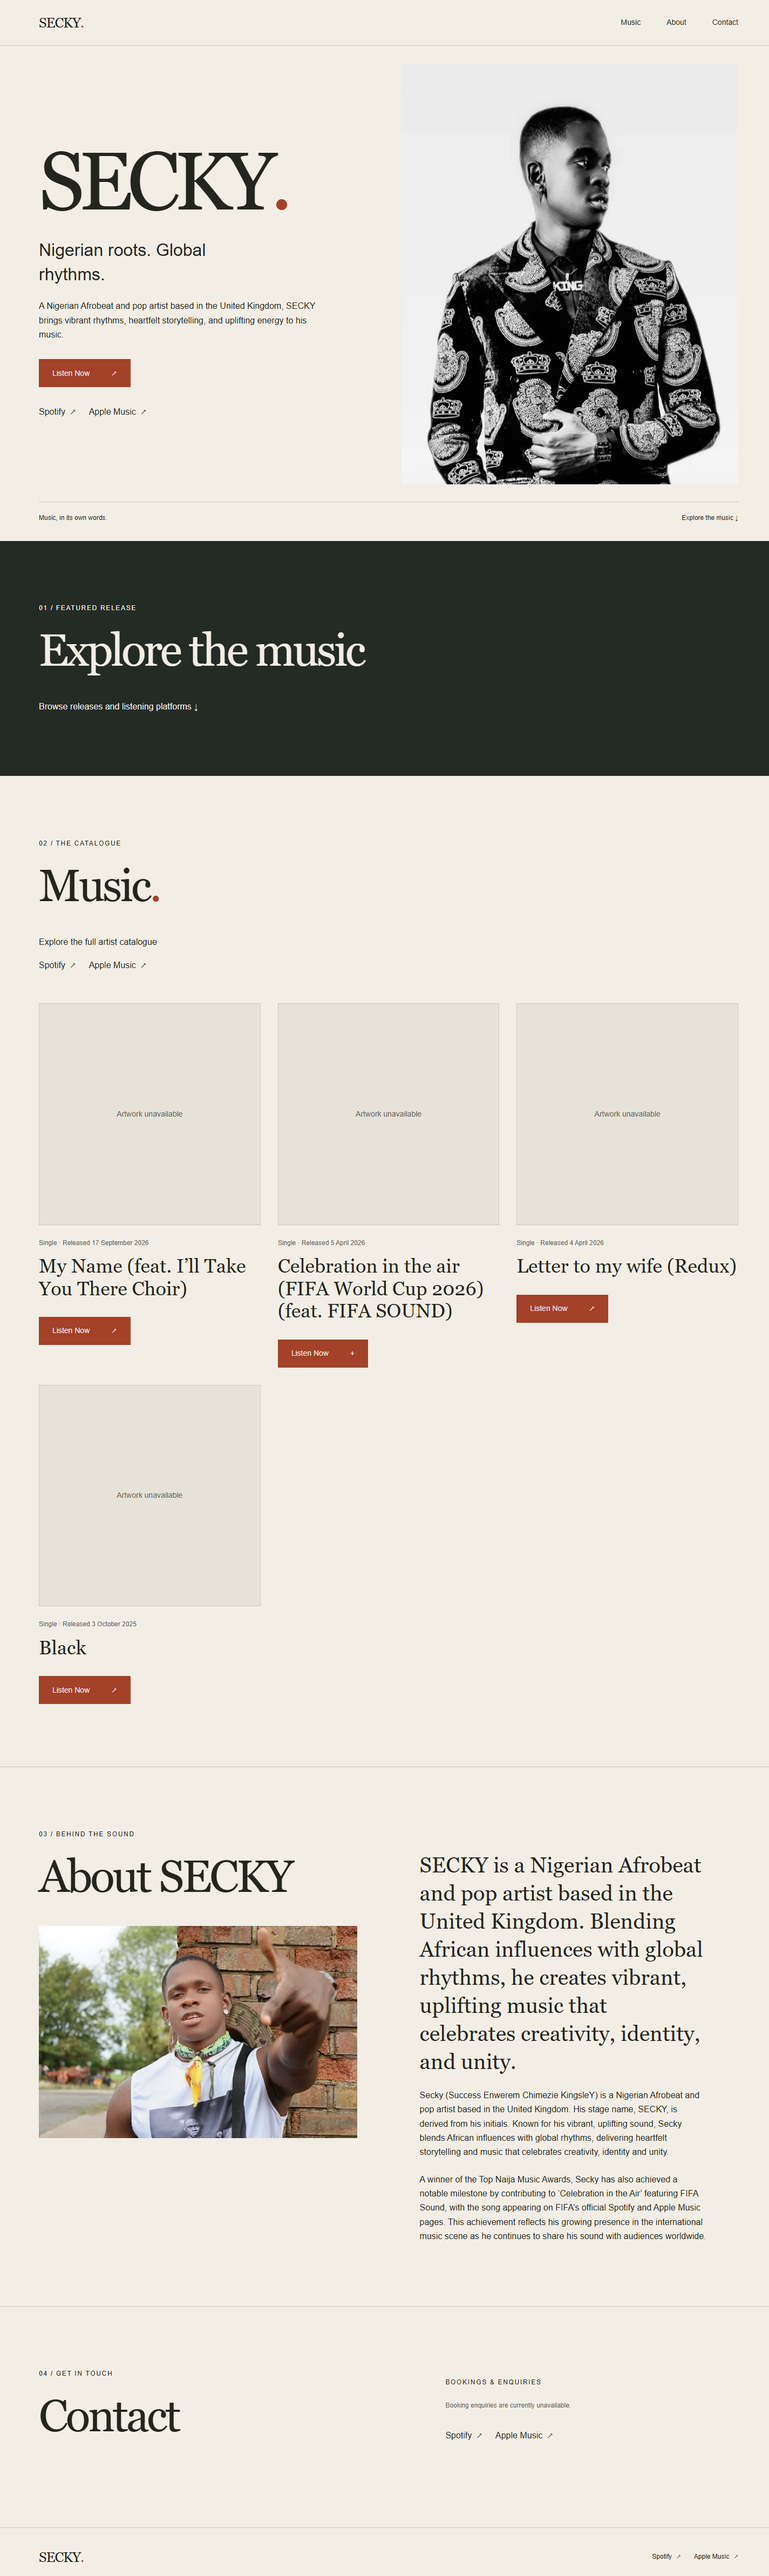
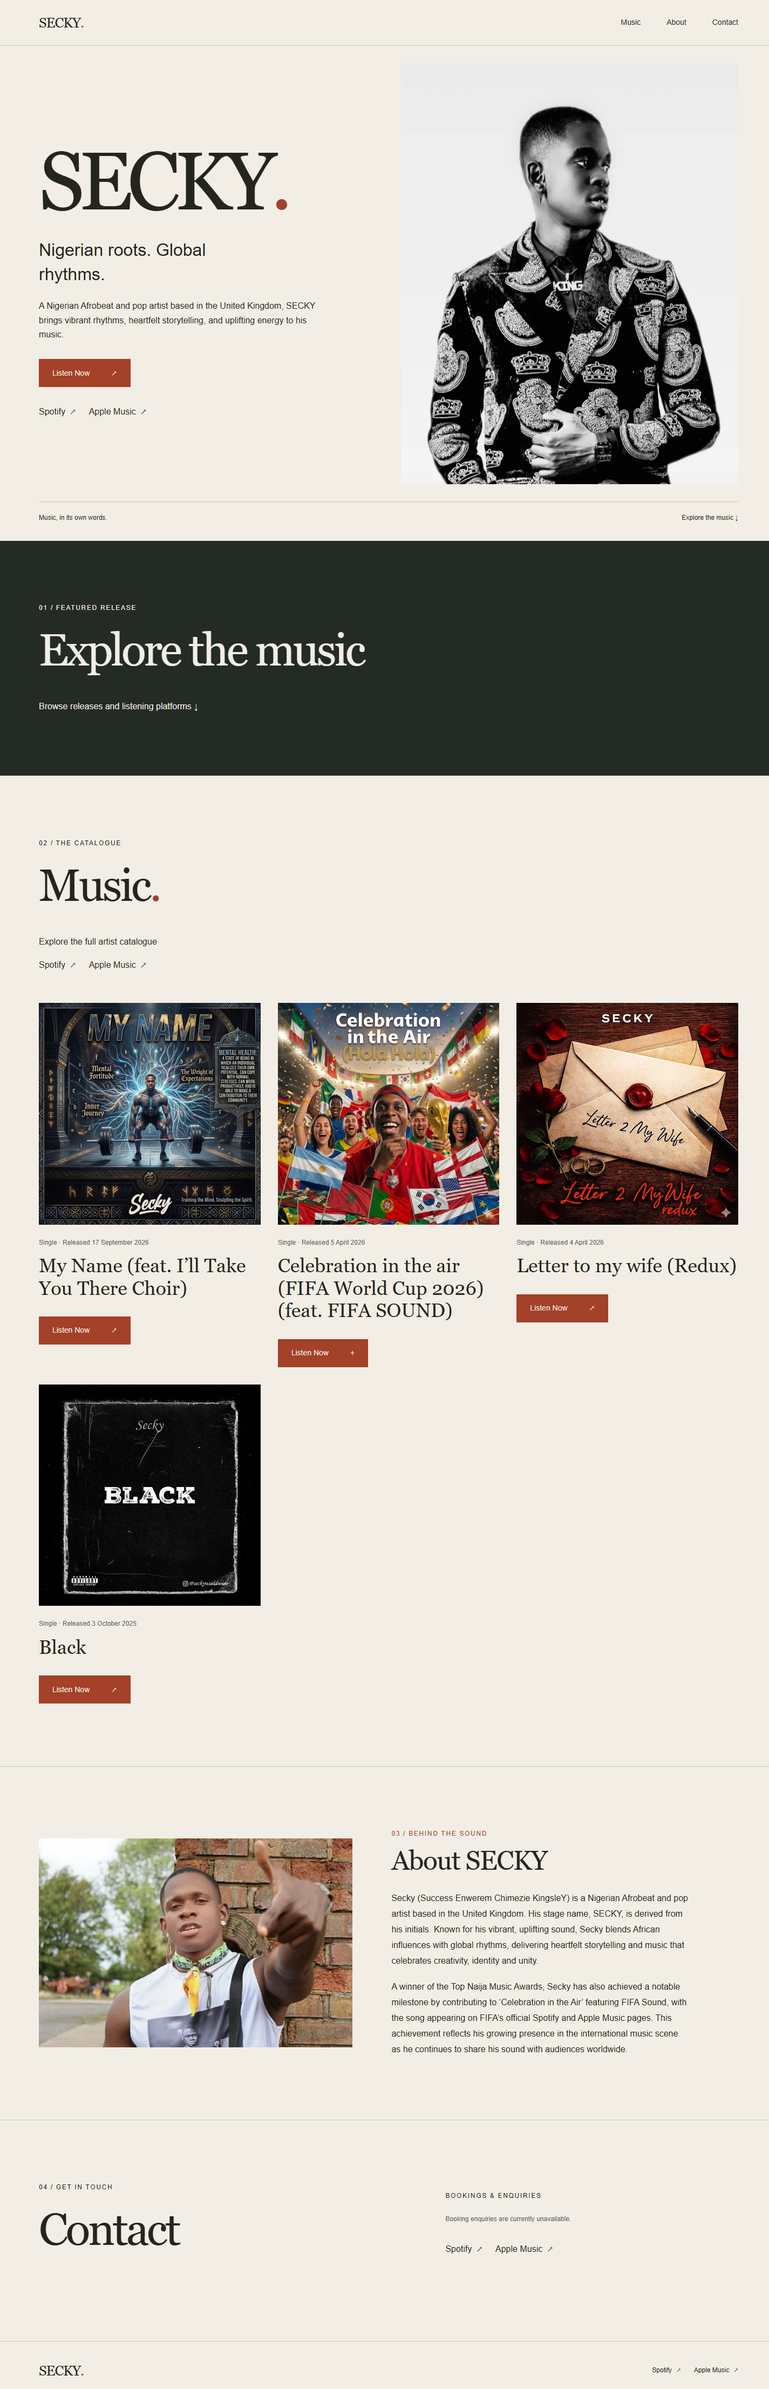
fixes: added email services and fixed tab issues

diff --git a/src/content/releases.ts b/src/content/releases.ts
@@ -1,3 +1,8 @@
+const myNameArtwork = new URL('../assets/releases/my-name.jpg', import.meta.url).href;
+const celebrationArtwork = new URL('../assets/releases/celebration-in-the-air.jpg', import.meta.url).href;
+const letterArtwork = new URL('../assets/releases/letter-to-my-wife-redux.jpg', import.meta.url).href;
+const blackArtwork = new URL('../assets/releases/black.jpg', import.meta.url).href;
+
 export interface ReleasePlatform {
   name: string;
   url: string;
@@ -18,16 +23,19 @@ export interface Release {
 }
 
 // Verified platform metadata and release-specific destinations; see docs/content-sources.md.
-// Artwork reuse permission and client featured selection remain outstanding.
+// Official covers matched by Apple collection and artist ID at the user's request.
+// Source register: docs/release-artwork-sources.json. Featured selection remains pending.
 export const releases: Release[] = [
   {
     id: 'my-name', title: 'My Name (feat. I’ll Take You There Choir)', type: 'single',
     releaseDate: '2026-09-17', featured: false,
+    artwork: { src: myNameArtwork, alt: 'Cover artwork for My Name by SECKY featuring I’ll Take You There Choir' },
     platforms: [{ name: 'Apple Music', url: 'https://music.apple.com/us/album/my-name-feat-ill-take-you-there-choir/6811251027?i=6811251028' }],
   },
   {
     id: 'celebration-in-the-air', title: 'Celebration in the air (FIFA World Cup 2026) (feat. FIFA SOUND)', type: 'single',
     releaseDate: '2026-04-05', featured: false,
+    artwork: { src: celebrationArtwork, alt: 'Cover artwork for Celebration in the air by SECKY featuring FIFA SOUND' },
     platforms: [
       { name: 'Spotify', url: 'https://open.spotify.com/track/2AoDhIQASYWEc1FjtXQv6y' },
       { name: 'Apple Music', url: 'https://music.apple.com/us/album/celebration-in-the-air-fifa-world-cup-2026-feat-fifa/1888957592' },
@@ -36,10 +44,12 @@ export const releases: Release[] = [
   {
     id: 'letter-to-my-wife-redux', title: 'Letter to my wife (Redux)', type: 'single',
     releaseDate: '2026-04-04', featured: false,
+    artwork: { src: letterArtwork, alt: 'Cover artwork for Letter to my wife (Redux) by SECKY' },
     platforms: [{ name: 'Apple Music', url: 'https://music.apple.com/us/album/letter-to-my-wife-redux/1891233342?i=1891233343' }],
   },
   {
     id: 'black', title: 'Black', type: 'single', releaseDate: '2025-10-03', featured: false,
+    artwork: { src: blackArtwork, alt: 'Cover artwork for Black by SECKY' },
     platforms: [{ name: 'Apple Music', url: 'https://music.apple.com/us/album/black-single/1843594841' }],
   },
 ];

diff --git a/src/components/ArtistSections.tsx b/src/components/ArtistSections.tsx
@@ -19,9 +19,10 @@ export function Hero({ artist, listeningTarget = '#music' }: { artist: ArtistCon
 
 export function About({ artist }: { artist: ArtistContent }) {
   return <section id="about" className="about section" tabIndex={-1} aria-labelledby="about-title"><Container className="about-grid">
-    <div><SectionHeading id="about-title" eyebrow="03 / Behind the sound">{artist.aboutHeading}</SectionHeading>{artist.aboutImage && <ArtistPhoto image={artist.aboutImage} />}</div>
-    <div className="biography">{artist.isDraft && <p className="draft">Temporary biography — approved artist copy pending.</p>}
-      {artist.shortBio && <p className="bio-lead">{artist.shortBio}</p>}
+    {artist.aboutImage && <ArtistPhoto image={artist.aboutImage} />}
+    <div className="biography">
+      <SectionHeading id="about-title" eyebrow="03 / Behind the sound">{artist.aboutHeading}</SectionHeading>
+      {artist.isDraft && <p className="draft">Temporary biography — approved artist copy pending.</p>}
       {artist.biography.map((paragraph, index) => <p key={index}>{paragraph}</p>)}
     </div>
   </Container></section>;

diff --git a/src/styles.css b/src/styles.css
@@ -177,3 +177,18 @@ footer .profile-links { margin-top: 0; }
 .about-image { width: 100%; }
 .about-image img { aspect-ratio: 3 / 2; object-position: center; filter: none; }
 
+/* A compact portrait-and-story layout, with one clear biography rather than repeated introductions. */
+.about-grid { grid-template-columns: minmax(0, .95fr) minmax(0, 1.05fr); align-items: center; gap: clamp(2rem, 5vw, 5rem); }
+.about .about-image { margin: 0; }
+.about .biography { padding: 0; max-width: 62ch; font-size: 1rem; line-height: 1.8; }
+.about .section-heading { margin-bottom: 1.75rem; }
+.about h2 { font-size: clamp(2.25rem, 3.5vw, 3.5rem); letter-spacing: -.035em; line-height: 1.12; }
+.about .eyebrow { color: var(--accent); margin-bottom: .75rem; }
+.about .biography > p + p { margin-top: 1.25rem; }
+.about-grid:not(:has(.about-image)) { grid-template-columns: 1fr; }
+@media (max-width: 767px) {
+  .about-grid { grid-template-columns: 1fr; gap: 2rem; }
+  .about .about-image { max-width: 600px; }
+  .about .biography { max-width: 65ch; }
+}
+

diff --git a/src/components/ui.tsx b/src/components/ui.tsx
@@ -12,7 +12,10 @@ export function Button({ className = '', type = 'button', ...props }: ComponentP
   return <button type={type} className={`button ${className}`} {...props} />;
 }
 export function Link({ className = '', ...props }: AnchorHTMLAttributes<HTMLAnchorElement>) {
-  return <a className={className} {...props} />;
+  const external = /^(https?:)?\/\//i.test(props.href ?? '');
+  return <a className={className} {...props}
+    target={external ? '_blank' : props.target}
+    rel={external ? `${props.rel ?? ''} noopener noreferrer`.trim() : props.rel} />;
 }
 export function ButtonLink(props: AnchorHTMLAttributes<HTMLAnchorElement>) {
   return <Link {...props} className={`button ${props.className ?? ''}`} />;

diff --git a/src/content/artist.ts b/src/content/artist.ts
@@ -75,6 +75,7 @@ export const artist: ArtistContent = {
     'A winner of the Top Naija Music Awards, Secky has also achieved a notable milestone by contributing to ‘Celebration in the Air’ featuring FIFA Sound, with the song appearing on FIFA’s official Spotify and Apple Music pages. This achievement reflects his growing presence in the international music scene as he continues to share his sound with audiences worldwide.',
   ],
   bookingLabel: 'Bookings & enquiries',
+  bookingEmail: 'Info@seckyworldwide.com',
   contactHeading: 'Contact',
   socialProfiles: [],
   streamingProfiles: [

diff --git a/README.md b/README.md
@@ -1,6 +1,6 @@
 # Artist website
 
-SECKY's identity, biographies, supplied hero/About photos, Spotify/Apple Music profiles and four platform-identified releases are integrated after Phase 4. No release is featured yet; covers and contact details are still missing. Release-candidate QA is complete; see docs/qa-report.md for launch blockers. No backend or account features are included.
+SECKY's identity, biographies, supplied hero/About photos, Spotify/Apple Music profiles and four platform-identified releases are integrated after Phase 4. No release is featured yet; official covers and the public booking email are integrated. Release-candidate QA is complete; see docs/qa-report.md for launch blockers. No backend or account features are included.
 
 ## Setup and development
 
@@ -38,7 +38,7 @@ Dependencies are pinned in `package.json` and `package-lock.json`: React/React D
 
 Edit `src/content/artist.ts`, not layout components. Change stage name, tagline, introduction, headings, short biography and biography paragraph array there. The page title follows the stage name. Add approved photography under an appropriate asset directory, import it and update the image's `src`, dimensions, `alt` and optional caption. Set an optional image/logo to `undefined` to omit it; the hero expands to one column without a photograph.
 
-Set `bookingEmail` to the verified public address. The contact component renders it as a `mailto:` link; blank or malformed values render an honest unavailable message. There is no form or sending service. Social/streaming arrays contain `{ label, url }` entries. Only nonempty labels with valid HTTPS URLs are displayed. They open in the same tab and have visible text labels; decorative arrows are hidden from assistive technology. Empty arrays produce no placeholder links or empty link headings. Manually verify the actual artist destination; syntax validation does not establish ownership.
+Set `bookingEmail` to the verified public address. The contact component renders it as a `mailto:` link; blank or malformed values render an honest unavailable message. There is no form or sending service. Social/streaming arrays contain `{ label, url }` entries. Only nonempty labels with valid HTTPS URLs are displayed. They open in a new tab with noopener noreferrer and have visible text labels; decorative arrows are hidden from assistive technology. Empty arrays produce no placeholder links or empty link headings. Manually verify the actual artist destination; syntax validation does not establish ownership.
 
 Current artist copy is client-supplied and `isDraft` is false, removing obsolete sample-copy notices. This does not mean launch-ready: noindex remains in place, and release artwork, booking/social details and copyright attribution are pending. Spotify and Apple Music profile links use the exact supplied URLs. Test `.test` URLs stay inside isolated fixtures. Set `copyrightOwner` only when confirmed. The full biography is supplied copy; supporting award/FIFA evidence and the final capital Y in the full name are tracked in the checklist.
 
@@ -70,7 +70,7 @@ The helper closes its dedicated browser on completion. It checks 320, 390, 768, 
 
 ## Outstanding content and later work
 
-Remaining inputs: all cover artwork, featured selection, canonical full catalogue, booking/management email, social handles, copyright attribution, brand approval and claim/name confirmations. The identity, hero copy, biographies and two artist profile URLs have been supplied and integrated. Catalogue sources and limited-access URLs are recorded in `docs/content-sources.md`. Responsive image optimisation and targeted production QA are complete. No deployment, broad cross-browser audit, physical-device testing or screen-reader audit has been performed. See docs/qa-report.md.
+Remaining inputs: featured selection, canonical full catalogue, social handles, copyright attribution, brand approval and claim/name confirmations. The identity, hero copy, biographies and two artist profile URLs have been supplied and integrated. Catalogue sources and limited-access URLs are recorded in `docs/content-sources.md`. Responsive image optimisation and targeted production QA are complete. No deployment, broad cross-browser audit, physical-device testing or screen-reader audit has been performed. See docs/qa-report.md.
 
 The production build also runs eight release logic/content tests. The existing browser helper now includes isolated release fixtures via `scripts/browser-release-checks.mjs` and `scripts/browser-fixtures.ts`; neither is imported into the production application. It tests all listening branches, artwork failure, feature exclusion, responsive catalogue columns, keyboard and emulated touch without navigating to fictitious destinations.
 

diff --git a/docs/qa-report.md b/docs/qa-report.md
@@ -71,3 +71,15 @@ Rechecked through browsing on 18 October during this phase. Tool responses can b
 No Lighthouse/axe score, Core Web Vitals field data, throttled performance benchmark, screen-reader session, physical-device test, Safari/Firefox test or social-platform debugger test was run. No full accessibility certification is claimed. Follow-up cross-browser/screen-reader review is recommended before public delivery.
 
 For development fixtures, follow README's dedicated Edge setup and run `node scripts/check-foundation.mjs`. For production, start a fresh dedicated browser and run `$env:QA_URL='http://127.0.0.1:4173/'; node scripts/check-foundation.mjs` in PowerShell. The helper closes its dedicated browser. Set `CAPTURE_CONTENT=1` to refresh captures. Clear `QA_URL` before running development fixtures. Image exports can be reproduced using `node scripts/prepare-images.mjs` with the dev server and dedicated browser running.
+
+## Artwork and About update - 19 October 2026
+
+All four official covers are now integrated at the explicit user request. Apple catalogue lookup matched collection IDs 6811251027, 1888957592, 1891233342 and 1843594841 to artist ID 1756161815. Local 800px square images have descriptive alternatives and lazy loading. See docs/release-artwork-sources.json for provenance. This supersedes earlier missing-artwork statements; featured selection remains pending.
+
+About now uses a balanced portrait-and-text layout, smaller heading and readable 16px biography. The repeated short introduction was removed from this section; the full approved biography is unchanged. Mobile stacks naturally.
+
+Production build, TypeScript, all eight tests and browser checks at 320/390/768/1440/1920px passed. Four loaded covers, no artwork fallbacks, navigation, listening fixtures and keyboard/touch checks passed with no runtime exceptions. Mobile/desktop screenshots were refreshed and visually reviewed. Deployment remains on hold.
+
+## Booking email and link behaviour - 19 October 2026
+
+Added the supplied public booking address Info@seckyworldwide.com as a mailto link. This supersedes previous missing-booking-email notes; actual mailbox delivery has not been tested. All external HTTP(S) links now open a new tab with noopener noreferrer through the shared Link component, including profiles, release destinations and chooser options. Internal anchors and mailto links retain their normal behaviour. Deployment remains on hold.

diff --git a/docs/content-checklist.md b/docs/content-checklist.md
@@ -63,3 +63,15 @@ Client confirmations before launch:
 Supply copy and release data in a document or spreadsheet with files clearly matched to the artist/release. Provide original assets rather than screenshots where possible. Record which items are approved, require edits, or are intentionally unavailable. The developer then transfers approved values into the structured files proposed in `project-scope.md`.
 
 Do not invent achievements, reviews, streaming figures, collaborators, client information, email addresses or URLs. Missing required material remains recorded here until resolved. Internal draft notes may track missing items; public placeholders and broken links are not a launch solution. Tours and Videos content is neither requested nor included.
+
+## Artwork and About update - 19 October 2026
+
+All four official covers are now integrated at the explicit user request. Apple catalogue lookup matched collection IDs 6811251027, 1888957592, 1891233342 and 1843594841 to artist ID 1756161815. Local 800px square images have descriptive alternatives and lazy loading. See docs/release-artwork-sources.json for provenance. This supersedes earlier missing-artwork statements; featured selection remains pending.
+
+About now uses a balanced portrait-and-text layout, smaller heading and readable 16px biography. The repeated short introduction was removed from this section; the full approved biography is unchanged. Mobile stacks naturally.
+
+Production build, TypeScript, all eight tests and browser checks at 320/390/768/1440/1920px passed. Four loaded covers, no artwork fallbacks, navigation, listening fixtures and keyboard/touch checks passed with no runtime exceptions. Mobile/desktop screenshots were refreshed and visually reviewed. Deployment remains on hold.
+
+## Booking email and link behaviour - 19 October 2026
+
+Added the supplied public booking address Info@seckyworldwide.com as a mailto link. This supersedes previous missing-booking-email notes; actual mailbox delivery has not been tested. All external HTTP(S) links now open a new tab with noopener noreferrer through the shared Link component, including profiles, release destinations and chooser options. Internal anchors and mailto links retain their normal behaviour. Deployment remains on hold.

diff --git a/docs/implementation-progress.md b/docs/implementation-progress.md
@@ -138,3 +138,15 @@ The bullets above describe the earlier planning-only milestone. `preview/index.h
 - Fixed the dark featured-section hover contrast and removed the unsupported booking availability promise.
 - Production build and 8/8 tests passed. Expanded semantics, contrast, keyboard-focus and existing browser checks passed against both development and production at five widths. Refreshed and reviewed mobile/desktop captures.
 - Full results, exact verification limits, client-review decisions and launch blockers are in `qa-report.md`. No deployment or new features introduced. Earlier milestone notes below/above remain historical records.
+
+## Artwork and About update - 19 October 2026
+
+All four official covers are now integrated at the explicit user request. Apple catalogue lookup matched collection IDs 6811251027, 1888957592, 1891233342 and 1843594841 to artist ID 1756161815. Local 800px square images have descriptive alternatives and lazy loading. See docs/release-artwork-sources.json for provenance. This supersedes earlier missing-artwork statements; featured selection remains pending.
+
+About now uses a balanced portrait-and-text layout, smaller heading and readable 16px biography. The repeated short introduction was removed from this section; the full approved biography is unchanged. Mobile stacks naturally.
+
+Production build, TypeScript, all eight tests and browser checks at 320/390/768/1440/1920px passed. Four loaded covers, no artwork fallbacks, navigation, listening fixtures and keyboard/touch checks passed with no runtime exceptions. Mobile/desktop screenshots were refreshed and visually reviewed. Deployment remains on hold.
+
+## Booking email and link behaviour - 19 October 2026
+
+Added the supplied public booking address Info@seckyworldwide.com as a mailto link. This supersedes previous missing-booking-email notes; actual mailbox delivery has not been tested. All external HTTP(S) links now open a new tab with noopener noreferrer through the shared Link component, including profiles, release destinations and chooser options. Internal anchors and mailto links retain their normal behaviour. Deployment remains on hold.

diff --git a/docs/content-sources.md b/docs/content-sources.md
@@ -44,3 +44,11 @@ Still needed: covers for the four entries, optional logo, approved social-sharin
 ## Validation scope
 
 Production build, eight release tests, existing foundation/browser checks and content-specific assertions passed. Checked exact supplied profile hrefs in hero/Music/footer, hero routing to Music, no profile URL reused for a release, absence of sample copy and stock photographs, full-name spelling, and title. Mobile/desktop text wrapping and biography spacing were visually reviewed in `docs/review/content-390.png` and `content-1440.png`; automated widths also covered 320, 768 and 1920px. After photo integration, refreshed mobile/desktop captures were visually checked for face visibility and proportions. The repeated brief verification reran the build and browser checks successfully, including both loaded artist images; it did not repeat live destination checks. No physical-device, screen-reader, final performance or broad QA audit was performed; Phase 5 has not begun.
+
+## Artwork and About update - 19 October 2026
+
+All four official covers are now integrated at the explicit user request. Apple catalogue lookup matched collection IDs 6811251027, 1888957592, 1891233342 and 1843594841 to artist ID 1756161815. Local 800px square images have descriptive alternatives and lazy loading. See docs/release-artwork-sources.json for provenance. This supersedes earlier missing-artwork statements; featured selection remains pending.
+
+About now uses a balanced portrait-and-text layout, smaller heading and readable 16px biography. The repeated short introduction was removed from this section; the full approved biography is unchanged. Mobile stacks naturally.
+
+Production build, TypeScript, all eight tests and browser checks at 320/390/768/1440/1920px passed. Four loaded covers, no artwork fallbacks, navigation, listening fixtures and keyboard/touch checks passed with no runtime exceptions. Mobile/desktop screenshots were refreshed and visually reviewed. Deployment remains on hold.

diff --git a/docs/release-management.md b/docs/release-management.md
@@ -34,7 +34,7 @@ This model supersedes the planned release JSON/featured-ID structure. The featur
 
 For releases not dated in the future: a valid smart link wins; otherwise one valid unique platform links directly; otherwise multiple platforms produce an inline chooser; otherwise an unavailable message appears without an active release listening action. Invalid or empty URLs/names are excluded at runtime. Duplicate destinations are collapsed. The content test reports invalid authored values before building. URL syntax checks do not establish that a destination exists or belongs to the artist.
 
-All external links are real anchors opening in the same tab. There are no new-tab links requiring new-tab rel attributes, players or autoplay. Without an explicitly featured release with an available listening action, hero Listen Now targets Music and its supplied artist-profile choices. When a usable feature is supplied it targets the featured section instead.
+All external website links are real anchors opening in a new tab with rel="noopener noreferrer". Internal navigation and mailto links retain their normal behaviour. There are no players or autoplay. Without an explicitly featured release with an available listening action, hero Listen Now targets Music and its supplied artist-profile choices. When a usable feature is supplied it targets the featured section instead.
 
 The chooser uses native `details`/`summary`. Enter/Space or a touch tap expands it, Tab reaches platform links, and Escape closes it and returns focus to the summary. Activating the summary again also closes it. It is an inline disclosure, not a modal: focus stays in document order and is not trapped.
 
